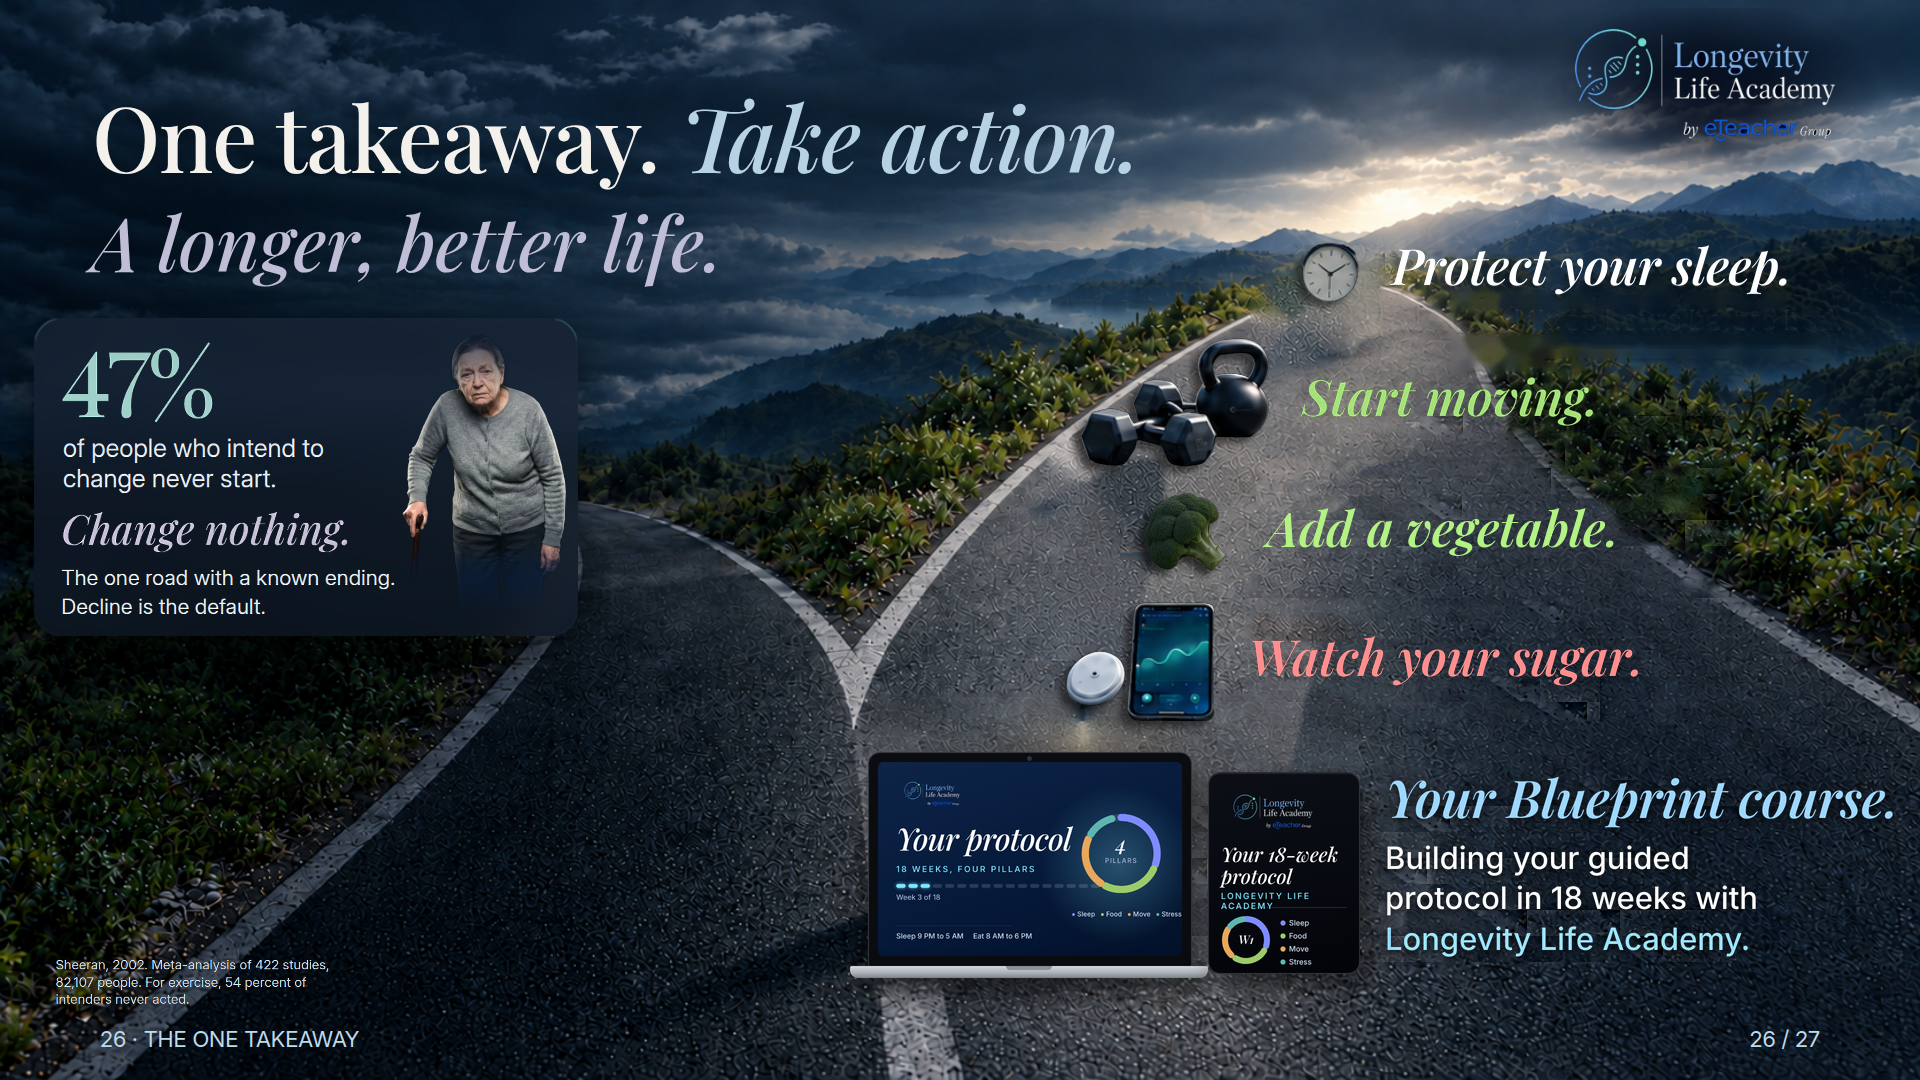
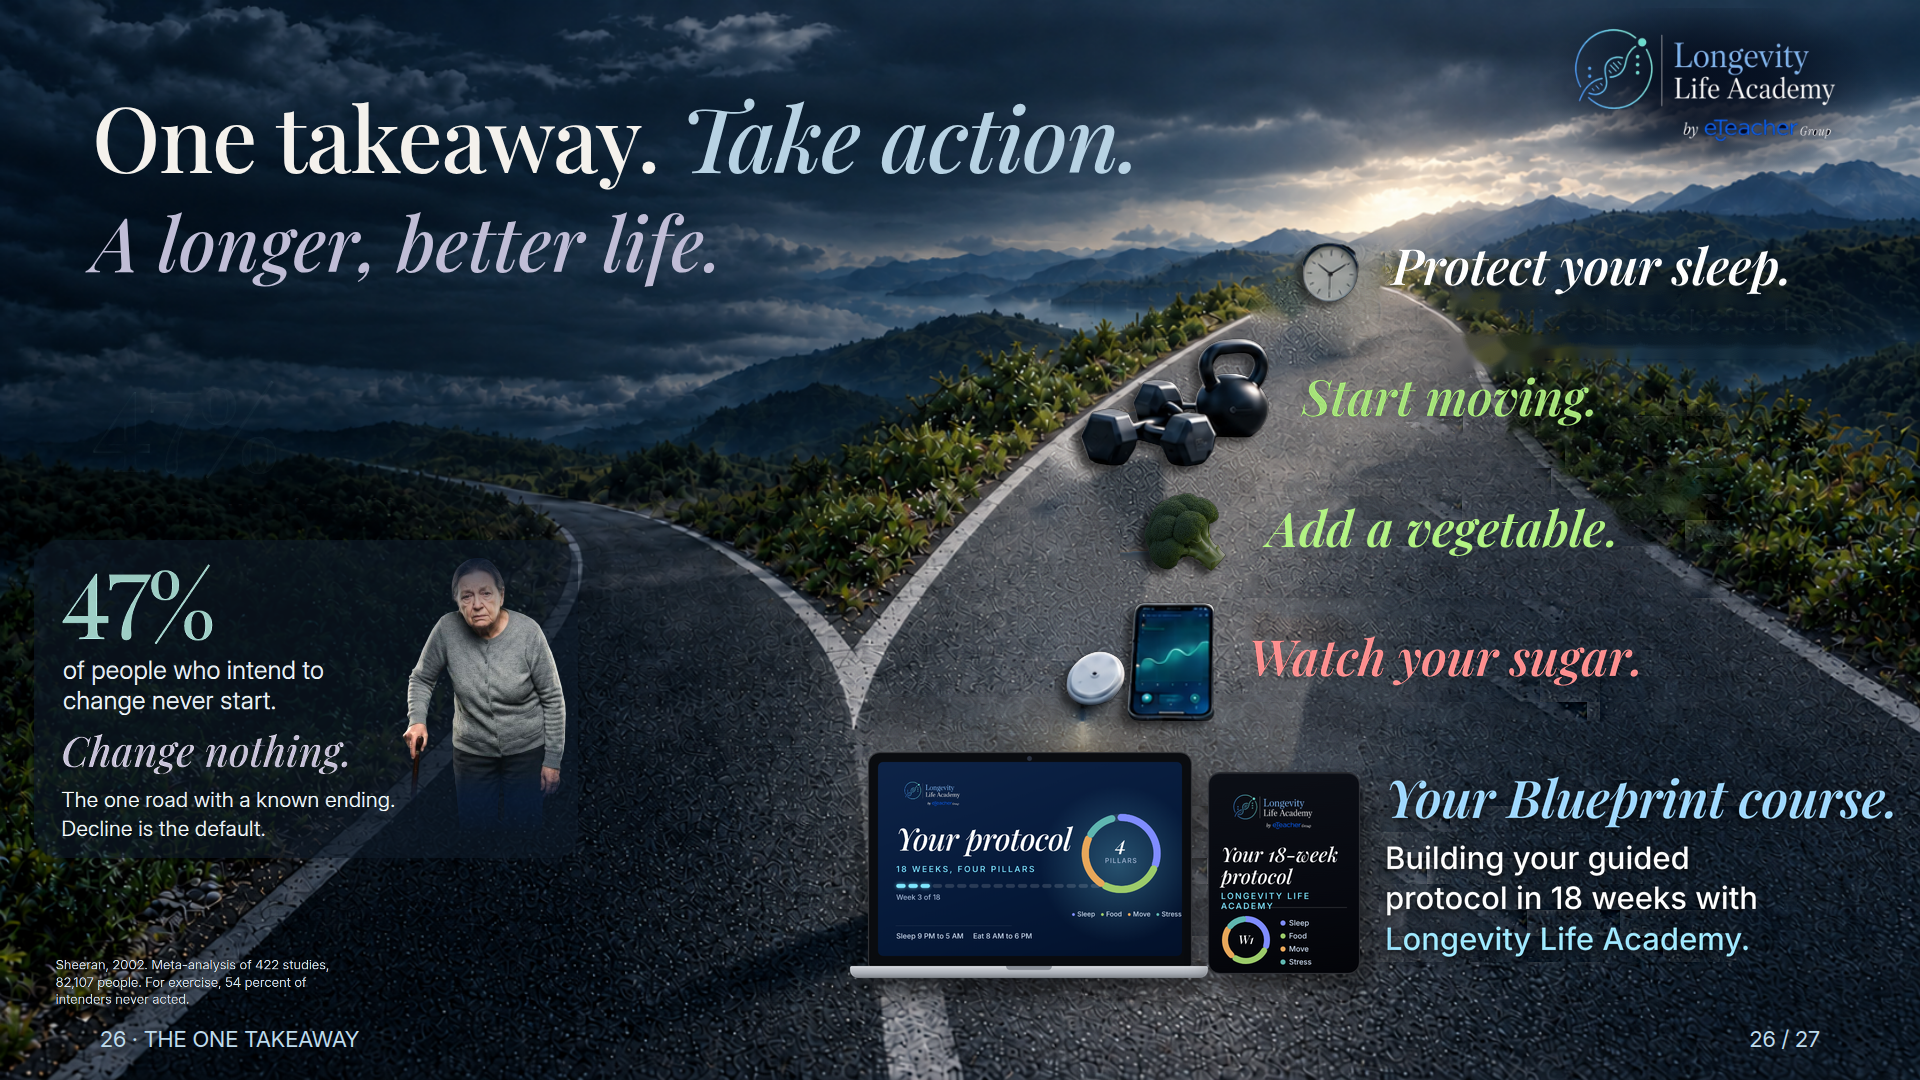
fork-lab: flat card, moved down

Changed region(s): [[0.0, 0.3056, 0.3125, 0.7944]]

diff --git a/slide-canvas/fork-lab/index.html b/slide-canvas/fork-lab/index.html
@@ -1,4 +1,4 @@
 <!doctype html><html><head><meta charset="utf-8"><title>Fork lab – slide 26</title>
 <style>body{margin:0;background:#0b1220;color:#dfe7f3;font:15px/1.4 Inter,system-ui,sans-serif}h2{font-weight:500;margin:28px 24px 10px}img{display:block;width:calc(100% - 48px);max-width:1920px;margin:0 24px 24px;border-radius:6px}</style></head>
 <body><h2>Original</h2><img src="original-n25-fork.png?v=1" alt="Original">
-<h2>New</h2><img src="new-n25-fork.png?v=6" alt="New"></body></html>
+<h2>New</h2><img src="new-n25-fork.png?v=7" alt="New"></body></html>

diff --git a/slide-canvas/fork-lab/src/b3.py b/slide-canvas/fork-lab/src/b3.py
@@ -10,7 +10,7 @@ def matte(x0,y0,x1,y1):
     al=np.clip((lum-bl)/np.maximum(tl-bl,25),0,1)*m
     col=np.clip((s-b*(1-al[...,None]))/np.maximum(al[...,None],0.08),0,255)
     return np.dstack([col,al[...,None]*255])
-CX0,CY0,CX1,CY1=34,318,578,636;RAD=26
+CX0,CY0,CX1,CY1=34,540,578,858;RAD=26
 # card base: text-free plate behind (left), blurred + darkened glass
 P=plate.copy()
 bl=cv2.GaussianBlur(P,(0,0),22)[CY0:CY1,CX0:CX1]
@@ -31,14 +31,14 @@ ramp=np.clip((859-np.arange(W))/8,0,1)[None,:];sh=np.maximum(sh*ramp,0)
 lm=np.zeros((H,W),np.uint8);lm[CY0-30:CY1+30,0:CX1+40]=255
 a=cv2.GaussianBlur((tm&lm).astype(np.float32)/255,(0,0),2.5)[...,None]
 R=R*(1-a)+plate*a
-R*=(1-0.55*sh[...,None])
+
 # bevel: top highlight edge, bottom darker edge
 edge=mk-cv2.erode(mk,np.ones((3,3),np.uint8))
 top=np.clip(1-yy/(hh*0.6),0,1)
 rim=np.array([200,190,90],np.float32)*(edge*top*0.32)[...,None]
 glass=glass+rim+ (edge*top*14)[...,None]+ (edge*(1-top)*8)[...,None]
 inner=cv2.GaussianBlur(mk,(0,0),10);glass*= (0.92+0.08*inner)[...,None]
-roi=R[CY0:CY1,CX0:CX1];A=mk[...,None]
+roi=R[CY0:CY1,CX0:CX1];A=mk[...,None];glass=roi*0.38+np.array([40,26,14],np.float32)*0.62
 R[CY0:CY1,CX0:CX1]=roi*(1-A)+glass*A
 # ---- text: stat block scaled 1.07, change nothing 1.0
 def paste(R,lay,x,y,sc=1.0):
@@ -49,8 +49,8 @@ st=matte(88,378,560,572)
 ci=matte(88,580,560,668)
 cn=matte(88,702,505,838)
 TX=58;SC=0.82
-paste(R,st,TX,340,SC)          # ~ 340..498
-paste(R,cn,TX,340+int(194*SC)+8,SC)
+paste(R,st,TX,340+222,SC)          # ~ 340..498
+paste(R,cn,TX,340+222+int(194*SC)+8,SC)
 paste(R,ci,52,955,0.6)
 # ---- woman
 wm=np.array(Image.open('woman.png')).astype(np.float32);wm=wm[...,[2,1,0,3]]
